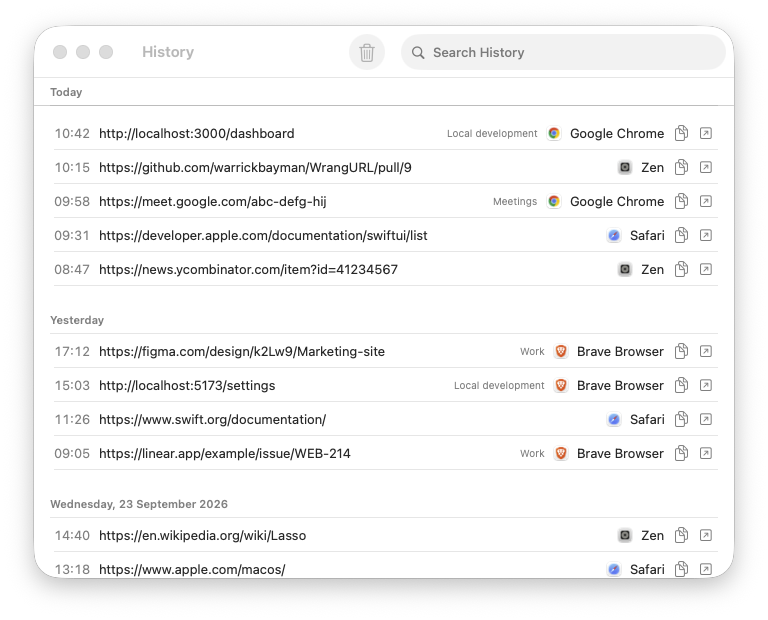
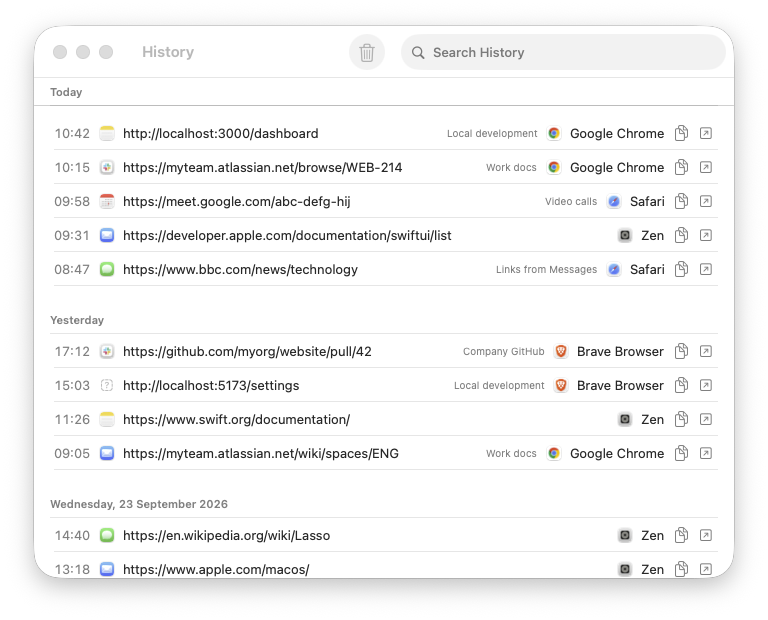
Recapture the website's Rules, rule editor and History screenshots.
They now show source apps: a rule limited to Slack and Mail, an "Any link
from Messages" rule, and the source app icons in History. Adds a debug-only
-DebugAppearance launch argument for the light variants, since
-NSRequiresAquaSystemAppearance is ignored.

diff --git a/docs/index.html b/docs/index.html
@@ -250,7 +250,7 @@
         <picture>
           <source srcset="images/settings-rules-dark.png" media="(prefers-color-scheme: dark)">
           <img src="images/settings-rules-light.png" width="748" height="736" loading="lazy"
-               alt="The Rules tab listing five rules, each with its pattern and the icons of the browsers it opens.">
+               alt="The Rules tab listing six rules, each with its pattern, the apps it is limited to, and the icons of the browsers it opens.">
         </picture>
         <figcaption>The Rules tab. The icons show which browsers each rule opens.</figcaption>
       </figure>
@@ -258,9 +258,9 @@
         <picture>
           <source srcset="images/rule-editor-dark.png" media="(prefers-color-scheme: dark)">
           <img src="images/rule-editor-light.png" width="748" height="736" loading="lazy"
-               alt="The rule editor for Local development: a simple pattern of localhost that opens Google Chrome or Brave Browser.">
+               alt="The rule editor for Work docs: a simple pattern of *.atlassian.net, clicked in Slack or Mail, that opens Google Chrome.">
         </picture>
-        <figcaption>Editing a rule. With two browsers, this rule shows the picker.</figcaption>
+        <figcaption>Editing a rule. It only applies to links clicked in Slack or Mail.</figcaption>
       </figure>
     </div>
 
@@ -334,9 +334,9 @@
       <picture>
         <source srcset="images/history-dark.png" media="(prefers-color-scheme: dark)">
         <img src="images/history-light.png" width="768" height="620" loading="lazy"
-             alt="The History window: links grouped under Today, Yesterday and an earlier date, each with its time, matching rule, browser, and buttons to copy or open it.">
+             alt="The History window: links grouped under Today, Yesterday and an earlier date, each with its time, the icon of the app it was clicked in, matching rule, browser, and buttons to copy or open it.">
       </picture>
-      <figcaption>The History window. Rule names appear next to the browser when a rule matched.</figcaption>
+      <figcaption>The History window. The icon before each link shows the app it was clicked in. Rule names appear next to the browser when a rule matched.</figcaption>
     </figure>
 
     <ul>

diff --git a/WrangURL/App/AppDelegate.swift b/WrangURL/App/AppDelegate.swift
@@ -59,6 +59,15 @@ final class AppDelegate: NSObject, NSApplicationDelegate {
 
         guard !Self.isRunningTests else { return }
 
+        #if DEBUG
+        // Launch with `-DebugAppearance <light|dark>` to override the system appearance, e.g. for screenshots.
+        switch UserDefaults.standard.string(forKey: "DebugAppearance") {
+        case "light": NSApp.appearance = NSAppearance(named: .aqua)
+        case "dark": NSApp.appearance = NSAppearance(named: .darkAqua)
+        default: break
+        }
+        #endif
+
         defaultBrowser.captureFallbackIfNeeded()
         if !config.config.settings.hasCompletedOnboarding {
             onboardingWindow.show(step: Self.debugOnboardingStep ?? .fallback)

diff --git a/CLAUDE.md b/CLAUDE.md
@@ -78,8 +78,9 @@ Debug builds accept launch arguments for inspecting UI without clicking. For exa
 - `-DebugInsertionIndex <n>` draws the rule editor's drop line at that position.
 - `-DebugOnboardingStep 0-3` opens the setup assistant on that step.
 - `-DebugShowHistory YES` opens the History window.
+- `-DebugAppearance light|dark` overrides the system appearance.
 - `-DebugShowPicker <bundleIDs,…>` (plus optional `-DebugPickerURL <url>`) shows the picker. `docs/picker.png` was captured this way.
 
-`docs/` is also the GitHub Pages site (`index.html`, `style.css`, `site.js`, no build step). Its screenshots in `docs/images/` were captured this way in light (`-NSRequiresAquaSystemAppearance YES`) and dark variants, using a demo `config.json`.
+`docs/` is also the GitHub Pages site (`index.html`, `style.css`, `site.js`, no build step). Its screenshots in `docs/images/` were captured this way in light and dark variants (`-DebugAppearance`; `-NSRequiresAquaSystemAppearance` is ignored), using a demo `config.json`.
 
 The debug build shares its sandbox container, and so its `config.json`, with any installed copy of WrangURL: `~/Library/Containers/com.thepublicgood.wrangurl/Data/Library/Application Support/WrangURL/`. Back that file up before experimenting with rules, and restore it afterwards.

diff --git a/PLAN.md b/PLAN.md
@@ -179,6 +179,7 @@ enum UnmatchedBehavior: String, Codable {
   - `-DebugEditRule <index>` opens the rule editor.
   - `-DebugInsertionIndex <n>` draws the browser drop line at that position.
   - `-DebugOnboardingStep <0-3>` opens the setup assistant on that step.
+  - `-DebugAppearance <light|dark>` overrides the system appearance, for screenshots.
   - `-DebugShowPicker <bundle IDs>` shows the picker with those browsers (comma-separated). `-DebugPickerURL <url>` sets the link it displays. Choosing a browser does nothing.
 - When the app is hosting the unit tests (`XCTestConfigurationFilePath` is set), it skips startup side effects: it doesn't record the fallback browser or open the setup assistant.
 - Setup is marked complete when its window closes by any means, so it doesn't reappear on every launch. Settings → General → Run Setup Again… reopens it.
